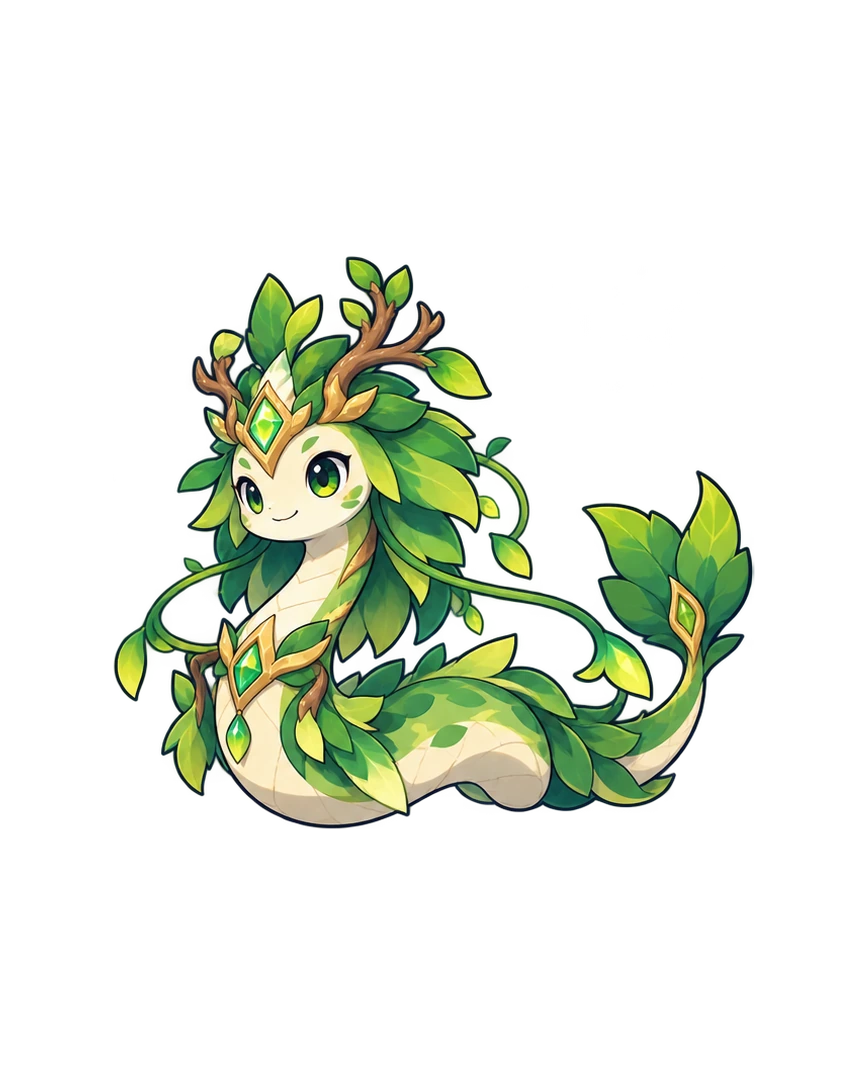
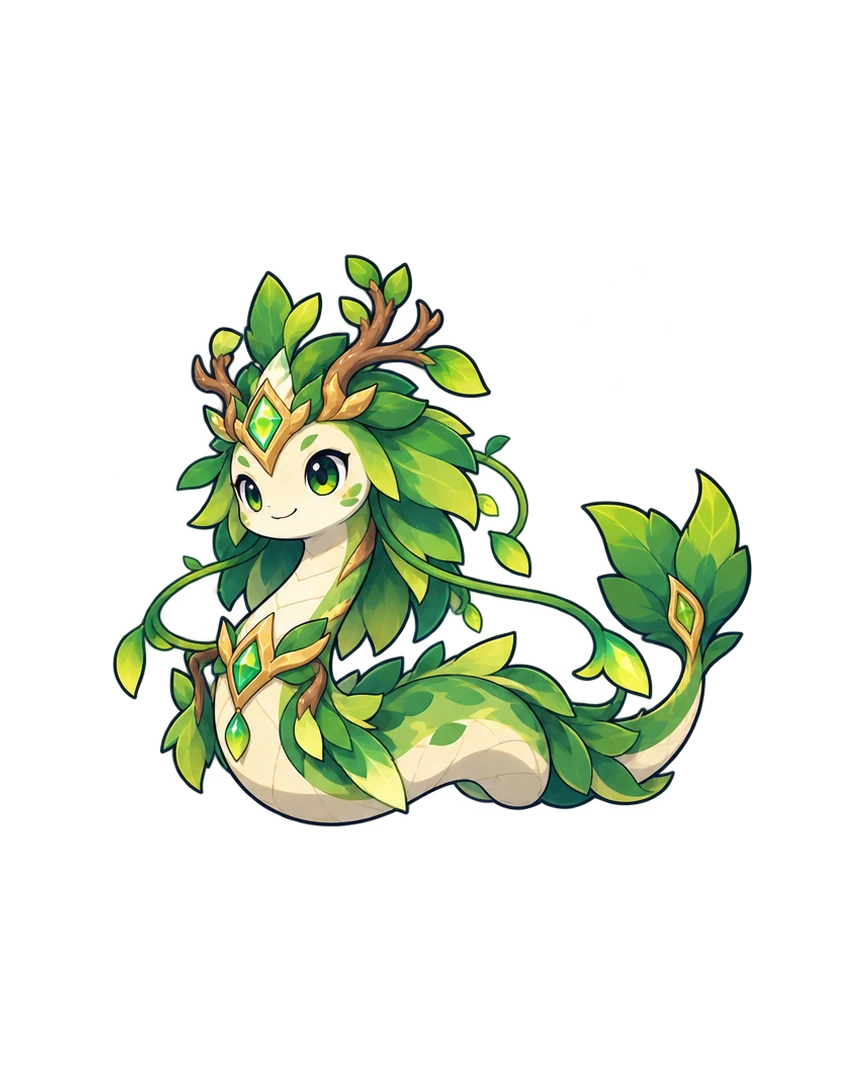
Deploy Dalbong Quiz Island public preview

diff --git a/sw.js b/sw.js
@@ -1,5 +1,5 @@
 const BASE=new URL(self.registration.scope).pathname;
-const VERSION='dalbong-quiz-island-528b3427412e';const CACHE=VERSION+'-static',MODELS=VERSION+'-creatures',THUMBS=VERSION+'-thumbs';
+const VERSION='dalbong-quiz-island-8ea17cc62dae';const CACHE=VERSION+'-static',MODELS=VERSION+'-creatures',THUMBS=VERSION+'-thumbs';
 const local=path=>BASE+path.replace(/^\//,'');
 const CORE=['','icon.svg','manifest.webmanifest',...['mori','lulu','komi'].map(p=>`assets/creatures2d/v5/icons/${p}-0.webp`)].map(local);
 self.addEventListener('install',e=>e.waitUntil(caches.open(CACHE).then(c=>c.addAll(CORE))));

diff --git a/README.md b/README.md
@@ -2,4 +2,4 @@
 
 https://dalmook.github.io/dalbong_quiz_island/
 
-공개 체험판 배포 파일 전용 저장소입니다. 로그인 키·DB·가족 기록·운영 문제은행·Blender 원본은 포함하지 않습니다. 이름·번호로 참여한 학습 기록과 서버 컬렉션은 Cloudflare에 저장합니다. 기존 기기 캐릭터·장식은 별도로 보존합니다. 100종·320형태의2D표시를유지하며선택한원화12종37형태를실제그림으로교체했습니다. 나머지는기존벡터그림을호환표시하며전체원화완료로표현하지않습니다. 로비부터2D가기본이고크게보기·진화전후비교를지원합니다. 기존3D모델은상세에서선택할때만열립니다.  Pages에서는 계정 작업을 동일한 Cloudflare 운영 주소로 연결합니다. 문항은 검수 전 연습용입니다.
+공개 체험판 배포 파일 전용 저장소입니다. 로그인 키·DB·가족 기록·운영 문제은행·Blender 원본은 포함하지 않습니다. 이름·번호로 참여한 학습 기록과 서버 컬렉션은 Cloudflare에 저장합니다. 기존 기기 캐릭터·장식은 별도로 보존합니다. 100종·320형태 모두 개별 래스터 일러스트로 연결했습니다. 기존 단독 원본292형태와 참조 시트28형태를 사용하며,28형태의 단독 고해상도 원본 보강은 남아 있습니다. 이전 벡터 대체 그림은 기본 표시에서 사용하지 않습니다. 로비부터2D가기본이고크게보기·진화전후비교를지원합니다. 기존3D모델은상세에서선택할때만열립니다.  Pages에서는 계정 작업을 동일한 Cloudflare 운영 주소로 연결합니다. 문항은 검수 전 연습용입니다.
